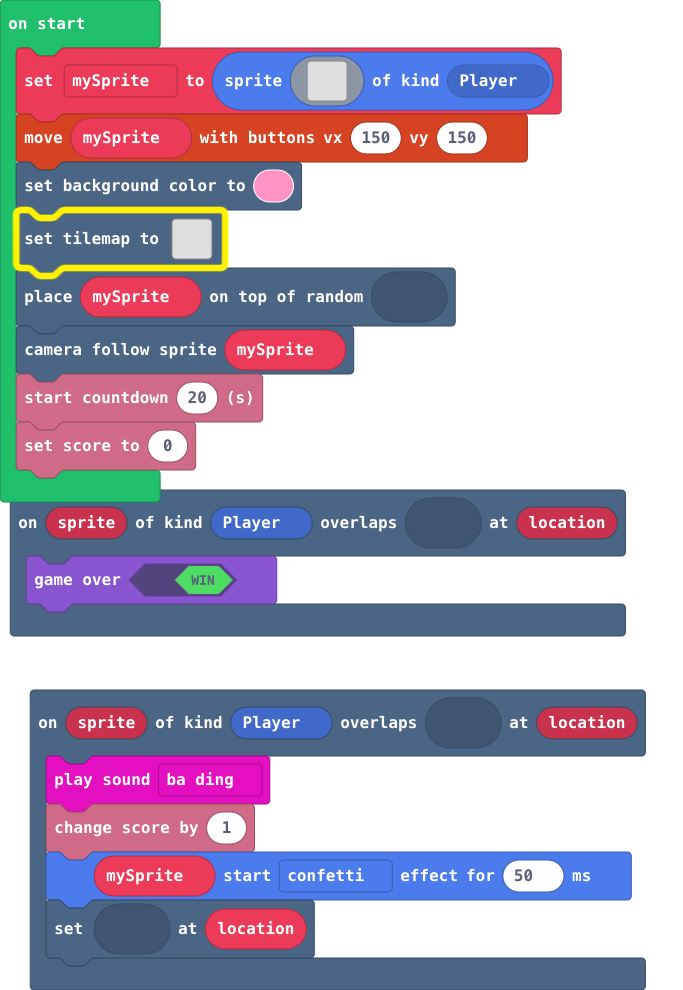
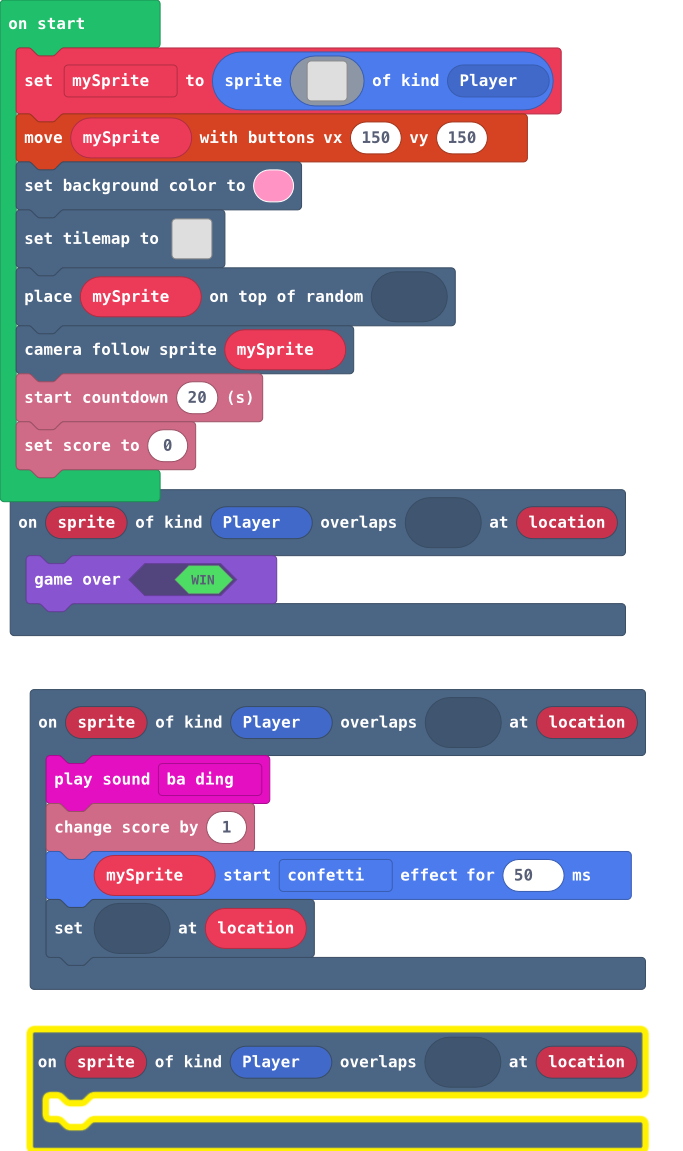
Update main.blocks, main.ts, tilemap.g.jres, tilemap.g.ts

diff --git a/main.ts b/main.ts
@@ -7,6 +7,9 @@ scene.onOverlapTile(SpriteKind.Player, sprites.dungeon.chestClosed, function (sp
     mySprite.startEffect(effects.confetti, 50)
     tiles.setTileAt(location, myTiles.transparency16)
 })
+scene.onOverlapTile(SpriteKind.Player, myTiles.tile1, function (sprite, location) {
+	
+})
 let mySprite: Sprite = null
 mySprite = sprites.create(img`
     . . . . . . . . . . . . . . 
@@ -28,7 +31,7 @@ mySprite = sprites.create(img`
     `, SpriteKind.Player)
 controller.moveSprite(mySprite, 150, 150)
 scene.setBackgroundColor(3)
-tiles.setTilemap(tiles.createTilemap(hex`1000100001010101010101010101010101010101020000000101040101010101010101010101010001010001010101010101010101010100010100010101010101010101010101000000000000000000000001010101000101000001010101000100010101000001010004010101000001000401010001010000010101010001010100010100010100010101010100010101000101000000000101010101000000000001010101000101010101010101010101010101010001010101040000000101010101010100010101010101010001010101010101000101010101010100000000010101010000000000000000000101000101010101010101010101010101010301`, img`
+tiles.setTilemap(tiles.createTilemap(hex`1000100001010101010101010101010101010101020000000101050101010101010101010101010001010001010101010101010101010100010100010101010101010101010101000000000000000000000001010101000101000001010101000100010101000001010000010101000001000401010001010000010101010001010100010100010100010101010100010101000101000000000101010101000000000001010101000101010101010101010101010101010001010101040000000101010101010100010101010101010001010101010101000101010101010100000000010101010000000000000000000101000101010101010101010101010101010301`, img`
     2 2 2 2 2 2 2 2 2 2 2 2 2 2 2 2 
     . . . . 2 2 . 2 2 . . . . . 2 2 
     2 2 2 . 2 2 . 2 2 . . . . . 2 2 
@@ -45,7 +48,7 @@ tiles.setTilemap(tiles.createTilemap(hex`100010000101010101010101010101010101010
     2 2 2 . 2 2 2 2 2 2 2 . . . . 2 
     2 2 2 . . . . . . . . . 2 2 . 2 
     2 2 2 2 2 2 2 2 2 2 2 2 2 2 . 2 
-    `, [myTiles.transparency16,sprites.castle.saplingOak,sprites.castle.tileGrass2,sprites.castle.shrub,sprites.dungeon.chestClosed], TileScale.Sixteen))
+    `, [myTiles.transparency16,sprites.castle.saplingOak,sprites.castle.tileGrass2,sprites.castle.shrub,sprites.dungeon.chestClosed,myTiles.tile1], TileScale.Sixteen))
 tiles.placeOnRandomTile(mySprite, sprites.castle.tileGrass2)
 scene.cameraFollowSprite(mySprite)
 info.startCountdown(20)

diff --git a/tilemap.g.ts b/tilemap.g.ts
@@ -2,6 +2,8 @@
 namespace myTiles {
     //% fixedInstance jres blockIdentity=images._tile
     export const transparency16 = image.ofBuffer(hex``);
+    //% fixedInstance jres blockIdentity=images._tile
+    export const tile1 = image.ofBuffer(hex``);
 
 }
 // Auto-generated code. Do not edit.
